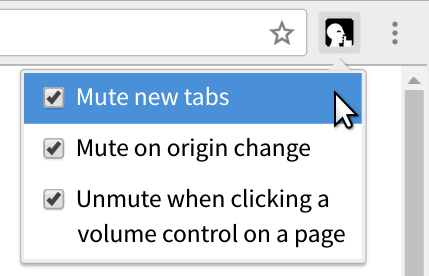
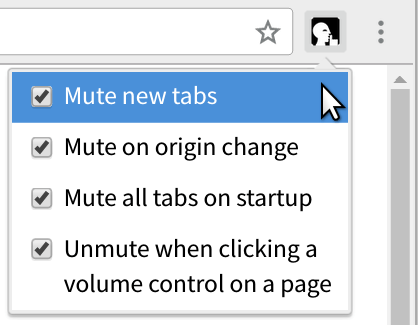
Implement 'Mute all tabs on startup'

diff --git a/mute_tabs.js b/mute_tabs.js
@@ -13,14 +13,20 @@ function assert(condition, message) {
 const settings = {
 	muteNewTabs: true,
 	muteOnOriginChange: true,
+	muteAllTabsOnStartup: true,
 	unmuteOnVolumeControl: true
 }
 
 // Populate settings as soon as possible
-chrome.storage.local.get(['muteNewTabs', 'muteOnOriginChange', 'unmuteOnVolumeControl'], function(result) {
+chrome.storage.local.get(['muteNewTabs', 'muteOnOriginChange', 'muteAllTabsOnStartup', 'unmuteOnVolumeControl'], function(result) {
 	settings.muteNewTabs = orTrue(result.muteNewTabs);
 	settings.muteOnOriginChange = orTrue(result.muteOnOriginChange);
+	settings.muteAllTabsOnStartup = orTrue(result.muteAllTabsOnStartup);
 	settings.unmuteOnVolumeControl = orTrue(result.unmuteOnVolumeControl);
+
+	if(settings.muteAllTabsOnStartup) {
+		muteAllTabs();
+	}
 });
 
 function keyChanged(key, newValue) {
@@ -41,12 +47,29 @@ function storageChanged(changes, namespace) {
 	}
 }
 
+function muteTab(tabId) {
+	assert(Number.isInteger(tabId));
+	chrome.tabs.update(tabId, {muted: true});
+}
+
+function unmuteTab(tabId) {
+	assert(Number.isInteger(tabId));
+	chrome.tabs.update(tabId, {muted: false});
+}
+
+function muteAllTabs() {
+	chrome.tabs.query({}, function(tabs) {
+		for(const tab of tabs) {
+			muteTab(tab.id);
+		}
+	});
+}
+
 function maybeMuteNewTab(tab) {
 	const tabId = tab.id;
-	assert(Number.isInteger(tabId));
 	if(settings.muteNewTabs) {
 		console.log("Muting new tab:", tab);
-		chrome.tabs.update(tabId, {muted: true});
+		muteTab(tabId);
 	} else {
 		console.log("Not muting new tab:", tab);
 	}
@@ -75,7 +98,7 @@ function navigationCommitted(details) {
 			getOrigin(oldUrl) !== getOrigin(newUrl);
 		if(needMute) {
 			console.log("Muting tab because new origin:", details);
-			chrome.tabs.update(tabId, {muted: true});
+			muteTab(tabId);
 		} else {
 			console.log("Not muting tab because same origin:", details);
 		}
@@ -93,7 +116,7 @@ function messageFromContentScript(request, sender, sendResponse) {
 	}
 	const tabId = sender.tab.id;
 	assert(Number.isInteger(tabId));
-	chrome.tabs.update(tabId, {muted: false});
+	unmuteTab(tabId);
 }
 
 // New tabs

diff --git a/popup.js b/popup.js
@@ -4,22 +4,26 @@ function byId(id) {
 	return document.getElementById(id);
 }
 
-const muteNewTabs = byId('mute-new-tabs');
-const muteOnOriginChange = byId('mute-on-origin-change');
-const unmuteOnVolumeControl = byId('unmute-on-volume-control');
+const toggles = {
+	muteNewTabs: byId('mute-new-tabs'),
+	muteOnOriginChange: byId('mute-on-origin-change'),
+	muteAllTabsOnStartup: byId('mute-all-tabs-on-startup'),
+	unmuteOnVolumeControl: byId('unmute-on-volume-control')
+};
+const toggleKeys = Object.keys(toggles);
 
-muteNewTabs.onchange = ev => chrome.storage.local.set({muteNewTabs: ev.target.checked}, function() {});
-muteOnOriginChange.onchange = ev => chrome.storage.local.set({muteOnOriginChange: ev.target.checked}, function() {});
-unmuteOnVolumeControl.onchange = ev => chrome.storage.local.set({unmuteOnVolumeControl: ev.target.checked}, function() {});
+for(const toggle of toggleKeys) {
+	toggles[toggle].onchange = ev => chrome.storage.local.set({[toggle]: ev.target.checked}, function() {});
+}
 
 function orTrue(v) {
 	return typeof v === "boolean" ? v : true;
 }
 
-chrome.storage.local.get(['muteNewTabs', 'muteOnOriginChange', 'unmuteOnVolumeControl'], function(result) {
-	muteNewTabs.checked = orTrue(result.muteNewTabs);
-	muteOnOriginChange.checked = orTrue(result.muteOnOriginChange);
-	unmuteOnVolumeControl.checked = orTrue(result.unmuteOnVolumeControl);
+chrome.storage.local.get(Object.keys(toggles), function(result) {
+	for(const toggle of toggleKeys) {
+		toggles[toggle].checked = orTrue(result[toggle]);
+	}
 });
 
 byId('unmute-label').addEventListener('mouseenter', function() {

diff --git a/popup.html b/popup.html
@@ -50,6 +50,7 @@
 	<body>
 		<label class="toggle"><input type="checkbox" id="mute-new-tabs">Mute new tabs</label>
 		<label class="toggle"><input type="checkbox" id="mute-on-origin-change">Mute on origin change</label>
+		<label class="toggle"><input type="checkbox" id="mute-all-tabs-on-startup">Mute all tabs on startup</label>
 		<label class="toggle" id="unmute-label">
 			<input type="checkbox" id="unmute-on-volume-control">Unmute when clicking a<br>
 			<input type="checkbox" class="checkbox-equivalent-space"></input>volume control on a page

diff --git a/README.md b/README.md
@@ -7,20 +7,24 @@ websites to make noise without your permission.  It mutes the audio in all new
 tabs.  If necessary, you can un-mute a tab by clicking the mute/un-mute icon on
 the tab itself.
 
-It also mutes the tab when you navigate to a different origin.
+**You must enable "Tab audio muting UI control" in `chrome://flags` to see the
+mute/un-mute icon on the tab; see the instructions below.**
+
+Mute New Tabs also mutes the tab when you navigate to a different origin.
 
 It also injects a content script on {youtube, vimeo, soundcloud, twitter}.com that
 unmutes the tab when you click on a volume control on the page.
 Clicking a volume control shows a clear intent to change the volume, so the
 tab mute shouldn't get in the way.
 
-All three features can be toggled in the extension's popup window:
+Because Chrome doesn't remember the mute state of tabs, it also mutes all
+tabs on startup.
+
+All four features can be toggled in the extension's popup window:
 
 <img src="screenshot.png" alt="Screenshot of menu showing 'Mute new tabs',
-'Mute on origin change', and 'Unmute when clicking a volume control on a page'" width="250" height="161">
-
-**You must enable "Tab audio muting UI control" in `chrome://flags` to use this
-extension; see the instructions below.**
+'Mute on origin change', 'Mute all tabs on startup', and
+'Unmute when clicking a volume control on a page'" width="243" height="189">
 
 Mute New Tabs isn't in the Chrome Web Store because 1) I don't want to deal
 with it, 2) you shouldn't blindly trust an auto-updating extension with
